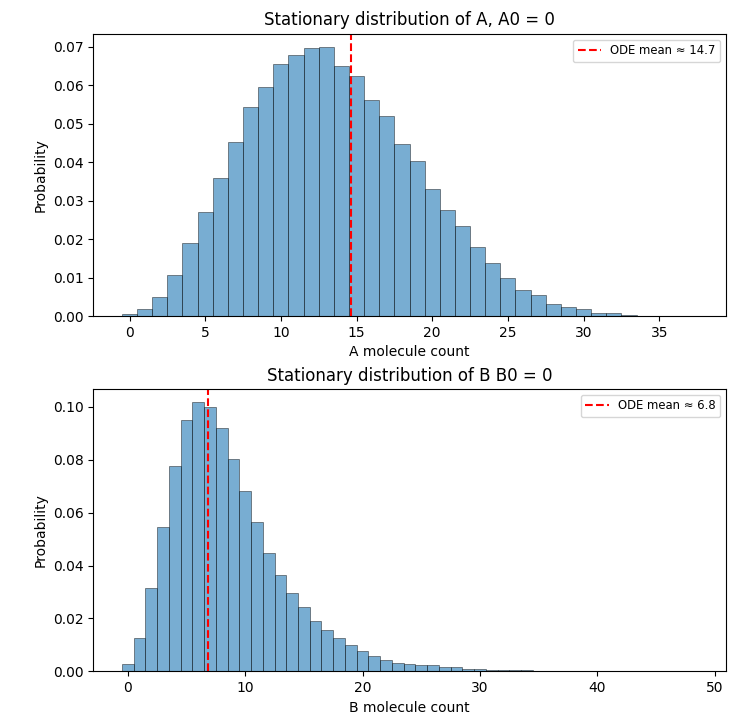
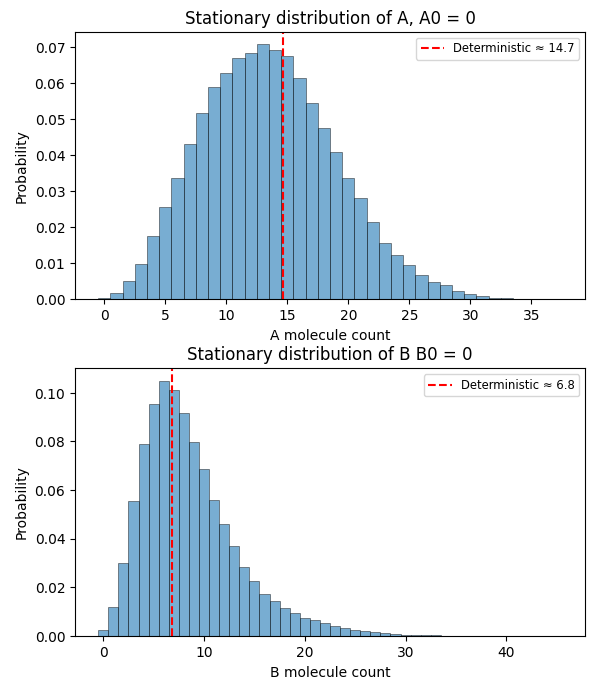
change

Changed region(s): [[0.03, 0.0, 0.99, 1.0], [0.78, 0.9184, 0.87, 0.9796]]

diff --git a/M2R-Gillespie-algorithm-for-stochastic-biochemical-systems/src/ligand_dimerization_case1_dis.py b/M2R-Gillespie-algorithm-for-stochastic-biochemical-systems/src/ligand_dimerization_case1_dis.py
@@ -84,7 +84,7 @@ def plot_stationary_distribution_S1_S2(S1_0, S2_0, t_max,burn_in=500.0, dt_sampl
     ax1.hist(all_S1, bins=bins_S1, density=True,
              alpha=0.6, edgecolor="black", linewidth=0.5)
     ax1.axvline(S1_ss, color="red", linestyle="--", linewidth=1.5,
-                label=f"ODE mean ≈ {S1_ss:.1f}")
+                label=f"Deterministic ≈ {S1_ss:.1f}")
     ax1.set_xlabel("S1 molecule count")
     ax1.set_ylabel("Probability")
     ax1.set_title(f"Stationary distribution of S1 S1_0=100") # noqa
@@ -94,7 +94,7 @@ def plot_stationary_distribution_S1_S2(S1_0, S2_0, t_max,burn_in=500.0, dt_sampl
     ax2.hist(all_S2, bins=bins_S2, density=True,
              alpha=0.6, edgecolor="black", linewidth=0.5)
     ax2.axvline(S2_ss, color="red", linestyle="--", linewidth=1.5,
-                label=f"ODE mean ≈ {S2_ss:.1f}")
+                label=f"Deterministic ≈ {S2_ss:.1f}")
     ax2.set_xlabel("S2 molecule count")
     ax2.set_ylabel("Probability")
     ax2.set_title(f"Stationary distribution of S2 S2_0=50") # noqa

diff --git a/M2R-Gillespie-algorithm-for-stochastic-biochemical-systems/src/ligand_dimerization_case2_dis.py b/M2R-Gillespie-algorithm-for-stochastic-biochemical-systems/src/ligand_dimerization_case2_dis.py
@@ -84,7 +84,7 @@ def plot_stationary_distribution_S1_S2(S1_0, S2_0, t_max,burn_in=500.0, dt_sampl
     ax1.hist(all_S1, bins=bins_S1, density=True,
              alpha=0.6, edgecolor="black", linewidth=0.5)
     ax1.axvline(S1_ss, color="red", linestyle="--", linewidth=1.5,
-                label=f"ODE mean ≈ {S1_ss:.1f}")
+                label=f"Deterministic ≈ {S1_ss:.1f}")
     ax1.set_xlabel("S1 molecule count")
     ax1.set_ylabel("Probability")
     ax1.set_title(f"Stationary distribution of S1 S1_0=100") # noqa
@@ -94,7 +94,7 @@ def plot_stationary_distribution_S1_S2(S1_0, S2_0, t_max,burn_in=500.0, dt_sampl
     ax2.hist(all_S2, bins=bins_S2, density=True,
              alpha=0.6, edgecolor="black", linewidth=0.5)
     ax2.axvline(S2_ss, color="red", linestyle="--", linewidth=1.5,
-                label=f"ODE mean ≈ {S2_ss:.1f}")
+                label=f"Deterministic ≈ {S2_ss:.1f}")
     ax2.set_xlabel("S2 molecule count")
     ax2.set_ylabel("Probability")
     ax2.set_title(f"Stationary distribution of S2 S2_0=0") # noqa

diff --git a/M2R-Gillespie-algorithm-for-stochastic-biochemical-systems/src/ligand_dimerization_case3_dis.py b/M2R-Gillespie-algorithm-for-stochastic-biochemical-systems/src/ligand_dimerization_case3_dis.py
@@ -84,7 +84,7 @@ def plot_stationary_distribution_S1_S2(S1_0, S2_0, t_max,burn_in=500.0, dt_sampl
     ax1.hist(all_S1, bins=bins_S1, density=True,
              alpha=0.6, edgecolor="black", linewidth=0.5)
     ax1.axvline(S1_ss, color="red", linestyle="--", linewidth=1.5,
-                label=f"ODE mean ≈ {S1_ss:.1f}")
+                label=f"Deterministic ≈ {S1_ss:.1f}")
     ax1.set_xlabel("S1 molecule count")
     ax1.set_ylabel("Probability")
     ax1.set_title(f"Stationary distribution of S1 S1_0=0") # noqa
@@ -95,7 +95,7 @@ def plot_stationary_distribution_S1_S2(S1_0, S2_0, t_max,burn_in=500.0, dt_sampl
     ax2.hist(all_S2, bins=bins_S2, density=True,
              alpha=0.6, edgecolor="black", linewidth=0.5)
     ax2.axvline(S2_ss, color="red", linestyle="--", linewidth=1.5,
-                label=f"ODE mean ≈ {S2_ss:.1f}")
+                label=f"Deterministic ≈ {S2_ss:.1f}")
     ax2.set_xlabel("S2 molecule count")
     ax2.set_ylabel("Probability")
     ax2.set_title(f"Stationary distribution of S2 S2_0=50") # noqa

diff --git a/M2R-Gillespie-algorithm-for-stochastic-biochemical-systems/src/ligand_dimerization_case4_dis.py b/M2R-Gillespie-algorithm-for-stochastic-biochemical-systems/src/ligand_dimerization_case4_dis.py
@@ -84,7 +84,7 @@ def plot_stationary_distribution_S1_S2(S1_0, S2_0, t_max,burn_in=500.0, dt_sampl
     ax1.hist(all_S1, bins=bins_S1, density=True,
              alpha=0.6, edgecolor="black", linewidth=0.5)
     ax1.axvline(S1_ss, color="red", linestyle="--", linewidth=1.5,
-                label=f"ODE mean ≈ {S1_ss:.1f}")
+                label=f"Deterministic ≈ {S1_ss:.1f}")
     ax1.set_xlabel("S1 molecule count")
     ax1.set_ylabel("Probability")
     ax1.set_title(f"Stationary distribution of S1 S1_0=0") # noqa
@@ -95,7 +95,7 @@ def plot_stationary_distribution_S1_S2(S1_0, S2_0, t_max,burn_in=500.0, dt_sampl
     ax2.hist(all_S2, bins=bins_S2, density=True,
              alpha=0.6, edgecolor="black", linewidth=0.5)
     ax2.axvline(S2_ss, color="red", linestyle="--", linewidth=1.5,
-                label=f"ODE mean ≈ {S2_ss:.1f}")
+                label=f"Deterministic ≈ {S2_ss:.1f}")
     ax2.set_xlabel("S2 molecule count")
     ax2.set_ylabel("Probability")
     ax2.set_title(f"Stationary distribution of S2 S2_0=0") # noqa

diff --git a/M2R-Gillespie-algorithm-for-stochastic-biochemical-systems/src/protein_complex_case2_distribution.py b/M2R-Gillespie-algorithm-for-stochastic-biochemical-systems/src/protein_complex_case2_distribution.py
@@ -104,7 +104,7 @@ def plot_stationary_distribution(A0, B0, C0, D0, t_max, # noqa
     axA.hist(all_A, bins=bins_A, density=True,
              alpha=0.6, edgecolor="black", linewidth=0.5)
     axA.axvline(A_ss, color="red", linestyle="--", linewidth=1.5,
-                label=f"ODE mean ≈ {A_ss:.1f}")
+                label=f"Deterministic ≈ {A_ss:.1f}")
     axA.set_xlabel("A molecule count")
     axA.set_ylabel("Probability")
     axA.set_title(f"Stationary distribution of A, A0 = 50") # noqa
@@ -114,7 +114,7 @@ def plot_stationary_distribution(A0, B0, C0, D0, t_max, # noqa
     axB.hist(all_B, bins=bins_B, density=True,
              alpha=0.6, edgecolor="black", linewidth=0.5)
     axB.axvline(B_ss, color="red", linestyle="--", linewidth=1.5,
-                label=f"ODE mean ≈ {B_ss:.1f}")
+                label=f"Deterministic ≈ {B_ss:.1f}")
     axB.set_xlabel("B molecule count")
     axB.set_ylabel("Probability")
     axB.set_title(f"Stationary distribution of B B0 = 30") # noqa

diff --git a/M2R-Gillespie-algorithm-for-stochastic-biochemical-systems/src/protein_complex_case3_distribution.py b/M2R-Gillespie-algorithm-for-stochastic-biochemical-systems/src/protein_complex_case3_distribution.py
@@ -104,7 +104,7 @@ def plot_stationary_distribution(A0, B0, C0, D0, t_max, # noqa
     axA.hist(all_A, bins=bins_A, density=True,
              alpha=0.6, edgecolor="black", linewidth=0.5)
     axA.axvline(A_ss, color="red", linestyle="--", linewidth=1.5,
-                label=f"ODE mean ≈ {A_ss:.1f}")
+                label=f"Deterministic ≈ {A_ss:.1f}")
     axA.set_xlabel("A molecule count")
     axA.set_ylabel("Probability")
     axA.set_title(f"Stationary distribution of A, A0 = 50") # noqa
@@ -114,7 +114,7 @@ def plot_stationary_distribution(A0, B0, C0, D0, t_max, # noqa
     axB.hist(all_B, bins=bins_B, density=True,
              alpha=0.6, edgecolor="black", linewidth=0.5)
     axB.axvline(B_ss, color="red", linestyle="--", linewidth=1.5,
-                label=f"ODE mean ≈ {B_ss:.1f}")
+                label=f"Deterministic ≈ {B_ss:.1f}")
     axB.set_xlabel("B molecule count")
     axB.set_ylabel("Probability")
     axB.set_title(f"Stationary distribution of B B0 = 0") # noqa

diff --git a/M2R-Gillespie-algorithm-for-stochastic-biochemical-systems/src/protein_complex_case4_distribution.py b/M2R-Gillespie-algorithm-for-stochastic-biochemical-systems/src/protein_complex_case4_distribution.py
@@ -104,7 +104,7 @@ def plot_stationary_distribution(A0, B0, C0, D0, t_max, # noqa
     axA.hist(all_A, bins=bins_A, density=True,
              alpha=0.6, edgecolor="black", linewidth=0.5)
     axA.axvline(A_ss, color="red", linestyle="--", linewidth=1.5,
-                label=f"ODE mean ≈ {A_ss:.1f}")
+                label=f"Deterministic ≈ {A_ss:.1f}")
     axA.set_xlabel("A molecule count")
     axA.set_ylabel("Probability")
     axA.set_title(f"Stationary distribution of A, A0 = 0") # noqa
@@ -114,7 +114,7 @@ def plot_stationary_distribution(A0, B0, C0, D0, t_max, # noqa
     axB.hist(all_B, bins=bins_B, density=True,
              alpha=0.6, edgecolor="black", linewidth=0.5)
     axB.axvline(B_ss, color="red", linestyle="--", linewidth=1.5,
-                label=f"ODE mean ≈ {B_ss:.1f}")
+                label=f"Deterministic ≈ {B_ss:.1f}")
     axB.set_xlabel("B molecule count")
     axB.set_ylabel("Probability")
     axB.set_title(f"Stationary distribution of B B0 = 30") # noqa

diff --git a/M2R-Gillespie-algorithm-for-stochastic-biochemical-systems/src/protein_complex_case1_distribution.py b/M2R-Gillespie-algorithm-for-stochastic-biochemical-systems/src/protein_complex_case1_distribution.py
@@ -104,7 +104,7 @@ def plot_stationary_distribution(A0, B0, C0, D0, t_max, # noqa
     axA.hist(all_A, bins=bins_A, density=True,
              alpha=0.6, edgecolor="black", linewidth=0.5)
     axA.axvline(A_ss, color="red", linestyle="--", linewidth=1.5,
-                label=f"ODE mean ≈ {A_ss:.1f}")
+                label=f"Deterministic ≈ {A_ss:.1f}")
     axA.set_xlabel("A molecule count")
     axA.set_ylabel("Probability")
     axA.set_title(f"Stationary distribution of A, A0 = 0") # noqa
@@ -114,7 +114,7 @@ def plot_stationary_distribution(A0, B0, C0, D0, t_max, # noqa
     axB.hist(all_B, bins=bins_B, density=True,
              alpha=0.6, edgecolor="black", linewidth=0.5)
     axB.axvline(B_ss, color="red", linestyle="--", linewidth=1.5,
-                label=f"ODE mean ≈ {B_ss:.1f}")
+                label=f"Deterministic ≈ {B_ss:.1f}")
     axB.set_xlabel("B molecule count")
     axB.set_ylabel("Probability")
     axB.set_title(f"Stationary distribution of B B0 = 0") # noqa

diff --git a/M2R-Gillespie-algorithm-for-stochastic-biochemical-systems/src/birth_death_testing_analytical_solution.py b/M2R-Gillespie-algorithm-for-stochastic-biochemical-systems/src/birth_death_testing_analytical_solution.py
@@ -36,7 +36,7 @@ def plot_birth_death1(k1, k2, X0, t_max, n_trajectories=200): # noqa
         max_ssa = max(max_ssa, traj[:, 0].max())
 
     #  ODE
-    plt.plot(t_grid, x_ode, 'k-', linewidth=1.5, label='ODE sol')
+    plt.plot(t_grid, x_ode, 'k-', linewidth=1.5, label='Deterministic')
     max_ode = x_ode.max()
 
     plt.plot(t_grid, mean, 'r-', linewidth=1.5, label='Analytic mean')
